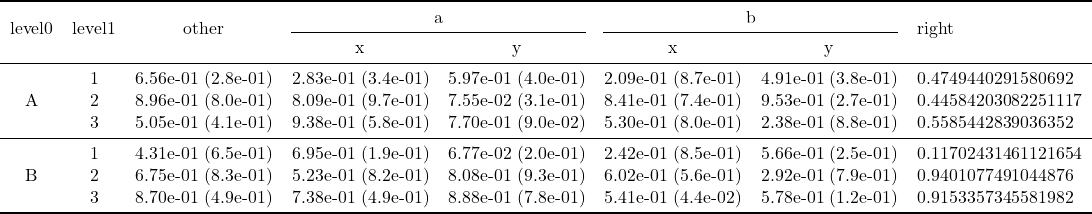
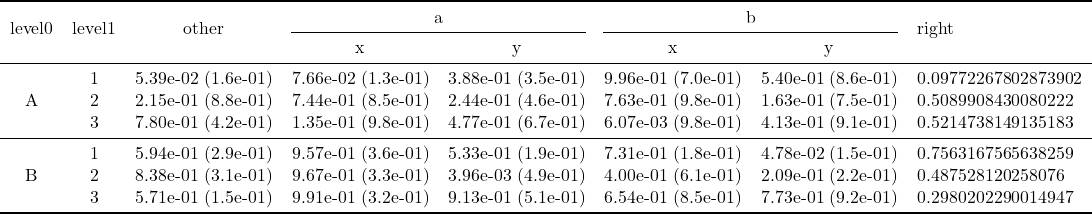
build based on 65963c9

diff --git a/dev/index.html b/dev/index.html
@@ -1,2 +1,2 @@
 <!DOCTYPE html>
-<html lang="en"><head><meta charset="UTF-8"/><meta name="viewport" content="width=device-width, initial-scale=1.0"/><title>LaTeXTables.jl Documentation · LaTeXTables.jl Documentation</title><script data-outdated-warner src="assets/warner.js"></script><link href="https://cdnjs.cloudflare.com/ajax/libs/lato-font/3.0.0/css/lato-font.min.css" rel="stylesheet" type="text/css"/><link href="https://cdnjs.cloudflare.com/ajax/libs/juliamono/0.045/juliamono.min.css" rel="stylesheet" type="text/css"/><link href="https://cdnjs.cloudflare.com/ajax/libs/font-awesome/5.15.4/css/fontawesome.min.css" rel="stylesheet" type="text/css"/><link href="https://cdnjs.cloudflare.com/ajax/libs/font-awesome/5.15.4/css/solid.min.css" rel="stylesheet" type="text/css"/><link href="https://cdnjs.cloudflare.com/ajax/libs/font-awesome/5.15.4/css/brands.min.css" rel="stylesheet" type="text/css"/><link href="https://cdnjs.cloudflare.com/ajax/libs/KaTeX/0.13.24/katex.min.css" rel="stylesheet" type="text/css"/><script>documenterBaseURL="."</script><script src="https://cdnjs.cloudflare.com/ajax/libs/require.js/2.3.6/require.min.js" data-main="assets/documenter.js"></script><script src="siteinfo.js"></script><script src="../versions.js"></script><link class="docs-theme-link" rel="stylesheet" type="text/css" href="assets/themes/documenter-dark.css" data-theme-name="documenter-dark" data-theme-primary-dark/><link class="docs-theme-link" rel="stylesheet" type="text/css" href="assets/themes/documenter-light.css" data-theme-name="documenter-light" data-theme-primary/><script src="assets/themeswap.js"></script></head><body><div id="documenter"><nav class="docs-sidebar"><div class="docs-package-name"><span class="docs-autofit"><a href>LaTeXTables.jl Documentation</a></span></div><form class="docs-search" action="search/"><input class="docs-search-query" id="documenter-search-query" name="q" type="text" placeholder="Search docs"/></form><ul class="docs-menu"><li class="is-active"><a class="tocitem" href>LaTeXTables.jl Documentation</a><ul class="internal"><li><a class="tocitem" href="#Related-Packages"><span>Related Packages</span></a></li></ul></li><li><a class="tocitem" href="api/">API</a></li><li><a class="tocitem" href="example/">Examples</a></li></ul><div class="docs-version-selector field has-addons"><div class="control"><span class="docs-label button is-static is-size-7">Version</span></div><div class="docs-selector control is-expanded"><div class="select is-fullwidth is-size-7"><select id="documenter-version-selector"></select></div></div></div></nav><div class="docs-main"><header class="docs-navbar"><nav class="breadcrumb"><ul class="is-hidden-mobile"><li class="is-active"><a href>LaTeXTables.jl Documentation</a></li></ul><ul class="is-hidden-tablet"><li class="is-active"><a href>LaTeXTables.jl Documentation</a></li></ul></nav><div class="docs-right"><a class="docs-edit-link" href="https://github.com/szcf-weiya/LaTeXTables.jl/blob/master/docs/src/index.md" title="Edit on GitHub"><span class="docs-icon fab"></span><span class="docs-label is-hidden-touch">Edit on GitHub</span></a><a class="docs-settings-button fas fa-cog" id="documenter-settings-button" href="#" title="Settings"></a><a class="docs-sidebar-button fa fa-bars is-hidden-desktop" id="documenter-sidebar-button" href="#"></a></div></header><article class="content" id="documenter-page"><h1 id="LaTeXTables.jl-Documentation"><a class="docs-heading-anchor" href="#LaTeXTables.jl-Documentation">LaTeXTables.jl Documentation</a><a id="LaTeXTables.jl-Documentation-1"></a><a class="docs-heading-anchor-permalink" href="#LaTeXTables.jl-Documentation" title="Permalink"></a></h1><p>LaTeXTables.jl is a Julia package that coverts (complex) tables into LaTeX code.</p><h2 id="Related-Packages"><a class="docs-heading-anchor" href="#Related-Packages">Related Packages</a><a id="Related-Packages-1"></a><a class="docs-heading-anchor-permalink" href="#Related-Packages" title="Permalink"></a></h2><ul><li><a href="https://github.com/scheinerman/LatexPrint.jl">https://github.com/scheinerman/LatexPrint.jl</a>: only support basic data structure, such as 1d or 2d arrays</li><li><a href="https://github.com/ronisbr/PrettyTables.jl">https://github.com/ronisbr/PrettyTables.jl</a>: only support simple tables, i.e., one level row and one level column</li></ul></article><nav class="docs-footer"><a class="docs-footer-nextpage" href="api/">API »</a><div class="flexbox-break"></div><p class="footer-message">Powered by <a href="https://github.com/JuliaDocs/Documenter.jl">Documenter.jl</a> and the <a href="https://julialang.org/">Julia Programming Language</a>.</p></nav></div><div class="modal" id="documenter-settings"><div class="modal-background"></div><div class="modal-card"><header class="modal-card-head"><p class="modal-card-title">Settings</p><button class="delete"></button></header><section class="modal-card-body"><p><label class="label">Theme</label><div class="select"><select id="documenter-themepicker"><option value="documenter-light">documenter-light</option><option value="documenter-dark">documenter-dark</option></select></div></p><hr/><p>This document was generated with <a href="https://github.com/JuliaDocs/Documenter.jl">Documenter.jl</a> version 0.27.24 on <span class="colophon-date" title="Wednesday 19 April 2023 14:34">Wednesday 19 April 2023</span>. Using Julia version 1.7.3.</p></section><footer class="modal-card-foot"></footer></div></div></div></body></html>
+<html lang="en"><head><meta charset="UTF-8"/><meta name="viewport" content="width=device-width, initial-scale=1.0"/><title>LaTeXTables.jl Documentation · LaTeXTables.jl Documentation</title><script data-outdated-warner src="assets/warner.js"></script><link href="https://cdnjs.cloudflare.com/ajax/libs/lato-font/3.0.0/css/lato-font.min.css" rel="stylesheet" type="text/css"/><link href="https://cdnjs.cloudflare.com/ajax/libs/juliamono/0.045/juliamono.min.css" rel="stylesheet" type="text/css"/><link href="https://cdnjs.cloudflare.com/ajax/libs/font-awesome/5.15.4/css/fontawesome.min.css" rel="stylesheet" type="text/css"/><link href="https://cdnjs.cloudflare.com/ajax/libs/font-awesome/5.15.4/css/solid.min.css" rel="stylesheet" type="text/css"/><link href="https://cdnjs.cloudflare.com/ajax/libs/font-awesome/5.15.4/css/brands.min.css" rel="stylesheet" type="text/css"/><link href="https://cdnjs.cloudflare.com/ajax/libs/KaTeX/0.13.24/katex.min.css" rel="stylesheet" type="text/css"/><script>documenterBaseURL="."</script><script src="https://cdnjs.cloudflare.com/ajax/libs/require.js/2.3.6/require.min.js" data-main="assets/documenter.js"></script><script src="siteinfo.js"></script><script src="../versions.js"></script><link class="docs-theme-link" rel="stylesheet" type="text/css" href="assets/themes/documenter-dark.css" data-theme-name="documenter-dark" data-theme-primary-dark/><link class="docs-theme-link" rel="stylesheet" type="text/css" href="assets/themes/documenter-light.css" data-theme-name="documenter-light" data-theme-primary/><script src="assets/themeswap.js"></script></head><body><div id="documenter"><nav class="docs-sidebar"><div class="docs-package-name"><span class="docs-autofit"><a href>LaTeXTables.jl Documentation</a></span></div><form class="docs-search" action="search/"><input class="docs-search-query" id="documenter-search-query" name="q" type="text" placeholder="Search docs"/></form><ul class="docs-menu"><li class="is-active"><a class="tocitem" href>LaTeXTables.jl Documentation</a><ul class="internal"><li><a class="tocitem" href="#Related-Packages"><span>Related Packages</span></a></li></ul></li><li><a class="tocitem" href="api/">API</a></li><li><a class="tocitem" href="example/">Examples</a></li></ul><div class="docs-version-selector field has-addons"><div class="control"><span class="docs-label button is-static is-size-7">Version</span></div><div class="docs-selector control is-expanded"><div class="select is-fullwidth is-size-7"><select id="documenter-version-selector"></select></div></div></div></nav><div class="docs-main"><header class="docs-navbar"><nav class="breadcrumb"><ul class="is-hidden-mobile"><li class="is-active"><a href>LaTeXTables.jl Documentation</a></li></ul><ul class="is-hidden-tablet"><li class="is-active"><a href>LaTeXTables.jl Documentation</a></li></ul></nav><div class="docs-right"><a class="docs-edit-link" href="https://github.com/szcf-weiya/LaTeXTables.jl/blob/master/docs/src/index.md" title="Edit on GitHub"><span class="docs-icon fab"></span><span class="docs-label is-hidden-touch">Edit on GitHub</span></a><a class="docs-settings-button fas fa-cog" id="documenter-settings-button" href="#" title="Settings"></a><a class="docs-sidebar-button fa fa-bars is-hidden-desktop" id="documenter-sidebar-button" href="#"></a></div></header><article class="content" id="documenter-page"><h1 id="LaTeXTables.jl-Documentation"><a class="docs-heading-anchor" href="#LaTeXTables.jl-Documentation">LaTeXTables.jl Documentation</a><a id="LaTeXTables.jl-Documentation-1"></a><a class="docs-heading-anchor-permalink" href="#LaTeXTables.jl-Documentation" title="Permalink"></a></h1><p>LaTeXTables.jl is a Julia package that coverts (complex) tables into LaTeX code.</p><h2 id="Related-Packages"><a class="docs-heading-anchor" href="#Related-Packages">Related Packages</a><a id="Related-Packages-1"></a><a class="docs-heading-anchor-permalink" href="#Related-Packages" title="Permalink"></a></h2><ul><li><a href="https://github.com/scheinerman/LatexPrint.jl">https://github.com/scheinerman/LatexPrint.jl</a>: only support basic data structure, such as 1d or 2d arrays</li><li><a href="https://github.com/ronisbr/PrettyTables.jl">https://github.com/ronisbr/PrettyTables.jl</a>: only support simple tables, i.e., one level row and one level column</li></ul></article><nav class="docs-footer"><a class="docs-footer-nextpage" href="api/">API »</a><div class="flexbox-break"></div><p class="footer-message">Powered by <a href="https://github.com/JuliaDocs/Documenter.jl">Documenter.jl</a> and the <a href="https://julialang.org/">Julia Programming Language</a>.</p></nav></div><div class="modal" id="documenter-settings"><div class="modal-background"></div><div class="modal-card"><header class="modal-card-head"><p class="modal-card-title">Settings</p><button class="delete"></button></header><section class="modal-card-body"><p><label class="label">Theme</label><div class="select"><select id="documenter-themepicker"><option value="documenter-light">documenter-light</option><option value="documenter-dark">documenter-dark</option></select></div></p><hr/><p>This document was generated with <a href="https://github.com/JuliaDocs/Documenter.jl">Documenter.jl</a> version 0.27.24 on <span class="colophon-date" title="Wednesday 19 April 2023 16:37">Wednesday 19 April 2023</span>. Using Julia version 1.7.3.</p></section><footer class="modal-card-foot"></footer></div></div></div></body></html>

diff --git a/dev/search/index.html b/dev/search/index.html
@@ -1,2 +1,2 @@
 <!DOCTYPE html>
-<html lang="en"><head><meta charset="UTF-8"/><meta name="viewport" content="width=device-width, initial-scale=1.0"/><title>Search · LaTeXTables.jl Documentation</title><script data-outdated-warner src="../assets/warner.js"></script><link href="https://cdnjs.cloudflare.com/ajax/libs/lato-font/3.0.0/css/lato-font.min.css" rel="stylesheet" type="text/css"/><link href="https://cdnjs.cloudflare.com/ajax/libs/juliamono/0.045/juliamono.min.css" rel="stylesheet" type="text/css"/><link href="https://cdnjs.cloudflare.com/ajax/libs/font-awesome/5.15.4/css/fontawesome.min.css" rel="stylesheet" type="text/css"/><link href="https://cdnjs.cloudflare.com/ajax/libs/font-awesome/5.15.4/css/solid.min.css" rel="stylesheet" type="text/css"/><link href="https://cdnjs.cloudflare.com/ajax/libs/font-awesome/5.15.4/css/brands.min.css" rel="stylesheet" type="text/css"/><link href="https://cdnjs.cloudflare.com/ajax/libs/KaTeX/0.13.24/katex.min.css" rel="stylesheet" type="text/css"/><script>documenterBaseURL=".."</script><script src="https://cdnjs.cloudflare.com/ajax/libs/require.js/2.3.6/require.min.js" data-main="../assets/documenter.js"></script><script src="../siteinfo.js"></script><script src="../../versions.js"></script><link class="docs-theme-link" rel="stylesheet" type="text/css" href="../assets/themes/documenter-dark.css" data-theme-name="documenter-dark" data-theme-primary-dark/><link class="docs-theme-link" rel="stylesheet" type="text/css" href="../assets/themes/documenter-light.css" data-theme-name="documenter-light" data-theme-primary/><script src="../assets/themeswap.js"></script></head><body><div id="documenter"><nav class="docs-sidebar"><div class="docs-package-name"><span class="docs-autofit"><a href="../">LaTeXTables.jl Documentation</a></span></div><form class="docs-search" action><input class="docs-search-query" id="documenter-search-query" name="q" type="text" placeholder="Search docs"/></form><ul class="docs-menu"><li><a class="tocitem" href="../">LaTeXTables.jl Documentation</a></li><li><a class="tocitem" href="../api/">API</a></li><li><a class="tocitem" href="../example/">Examples</a></li></ul><div class="docs-version-selector field has-addons"><div class="control"><span class="docs-label button is-static is-size-7">Version</span></div><div class="docs-selector control is-expanded"><div class="select is-fullwidth is-size-7"><select id="documenter-version-selector"></select></div></div></div></nav><div class="docs-main"><header class="docs-navbar"><nav class="breadcrumb"><ul class="is-hidden-mobile"><li class="is-active"><a href>Search</a></li></ul><ul class="is-hidden-tablet"><li class="is-active"><a href>Search</a></li></ul></nav><div class="docs-right"><a class="docs-settings-button fas fa-cog" id="documenter-settings-button" href="#" title="Settings"></a><a class="docs-sidebar-button fa fa-bars is-hidden-desktop" id="documenter-sidebar-button" href="#"></a></div></header><article><p id="documenter-search-info">Loading search...</p><ul id="documenter-search-results"></ul></article><nav class="docs-footer"><p class="footer-message">Powered by <a href="https://github.com/JuliaDocs/Documenter.jl">Documenter.jl</a> and the <a href="https://julialang.org/">Julia Programming Language</a>.</p></nav></div><div class="modal" id="documenter-settings"><div class="modal-background"></div><div class="modal-card"><header class="modal-card-head"><p class="modal-card-title">Settings</p><button class="delete"></button></header><section class="modal-card-body"><p><label class="label">Theme</label><div class="select"><select id="documenter-themepicker"><option value="documenter-light">documenter-light</option><option value="documenter-dark">documenter-dark</option></select></div></p><hr/><p>This document was generated with <a href="https://github.com/JuliaDocs/Documenter.jl">Documenter.jl</a> version 0.27.24 on <span class="colophon-date" title="Wednesday 19 April 2023 14:34">Wednesday 19 April 2023</span>. Using Julia version 1.7.3.</p></section><footer class="modal-card-foot"></footer></div></div></div></body><script src="../search_index.js"></script><script src="../assets/search.js"></script></html>
+<html lang="en"><head><meta charset="UTF-8"/><meta name="viewport" content="width=device-width, initial-scale=1.0"/><title>Search · LaTeXTables.jl Documentation</title><script data-outdated-warner src="../assets/warner.js"></script><link href="https://cdnjs.cloudflare.com/ajax/libs/lato-font/3.0.0/css/lato-font.min.css" rel="stylesheet" type="text/css"/><link href="https://cdnjs.cloudflare.com/ajax/libs/juliamono/0.045/juliamono.min.css" rel="stylesheet" type="text/css"/><link href="https://cdnjs.cloudflare.com/ajax/libs/font-awesome/5.15.4/css/fontawesome.min.css" rel="stylesheet" type="text/css"/><link href="https://cdnjs.cloudflare.com/ajax/libs/font-awesome/5.15.4/css/solid.min.css" rel="stylesheet" type="text/css"/><link href="https://cdnjs.cloudflare.com/ajax/libs/font-awesome/5.15.4/css/brands.min.css" rel="stylesheet" type="text/css"/><link href="https://cdnjs.cloudflare.com/ajax/libs/KaTeX/0.13.24/katex.min.css" rel="stylesheet" type="text/css"/><script>documenterBaseURL=".."</script><script src="https://cdnjs.cloudflare.com/ajax/libs/require.js/2.3.6/require.min.js" data-main="../assets/documenter.js"></script><script src="../siteinfo.js"></script><script src="../../versions.js"></script><link class="docs-theme-link" rel="stylesheet" type="text/css" href="../assets/themes/documenter-dark.css" data-theme-name="documenter-dark" data-theme-primary-dark/><link class="docs-theme-link" rel="stylesheet" type="text/css" href="../assets/themes/documenter-light.css" data-theme-name="documenter-light" data-theme-primary/><script src="../assets/themeswap.js"></script></head><body><div id="documenter"><nav class="docs-sidebar"><div class="docs-package-name"><span class="docs-autofit"><a href="../">LaTeXTables.jl Documentation</a></span></div><form class="docs-search" action><input class="docs-search-query" id="documenter-search-query" name="q" type="text" placeholder="Search docs"/></form><ul class="docs-menu"><li><a class="tocitem" href="../">LaTeXTables.jl Documentation</a></li><li><a class="tocitem" href="../api/">API</a></li><li><a class="tocitem" href="../example/">Examples</a></li></ul><div class="docs-version-selector field has-addons"><div class="control"><span class="docs-label button is-static is-size-7">Version</span></div><div class="docs-selector control is-expanded"><div class="select is-fullwidth is-size-7"><select id="documenter-version-selector"></select></div></div></div></nav><div class="docs-main"><header class="docs-navbar"><nav class="breadcrumb"><ul class="is-hidden-mobile"><li class="is-active"><a href>Search</a></li></ul><ul class="is-hidden-tablet"><li class="is-active"><a href>Search</a></li></ul></nav><div class="docs-right"><a class="docs-settings-button fas fa-cog" id="documenter-settings-button" href="#" title="Settings"></a><a class="docs-sidebar-button fa fa-bars is-hidden-desktop" id="documenter-sidebar-button" href="#"></a></div></header><article><p id="documenter-search-info">Loading search...</p><ul id="documenter-search-results"></ul></article><nav class="docs-footer"><p class="footer-message">Powered by <a href="https://github.com/JuliaDocs/Documenter.jl">Documenter.jl</a> and the <a href="https://julialang.org/">Julia Programming Language</a>.</p></nav></div><div class="modal" id="documenter-settings"><div class="modal-background"></div><div class="modal-card"><header class="modal-card-head"><p class="modal-card-title">Settings</p><button class="delete"></button></header><section class="modal-card-body"><p><label class="label">Theme</label><div class="select"><select id="documenter-themepicker"><option value="documenter-light">documenter-light</option><option value="documenter-dark">documenter-dark</option></select></div></p><hr/><p>This document was generated with <a href="https://github.com/JuliaDocs/Documenter.jl">Documenter.jl</a> version 0.27.24 on <span class="colophon-date" title="Wednesday 19 April 2023 16:37">Wednesday 19 April 2023</span>. Using Julia version 1.7.3.</p></section><footer class="modal-card-foot"></footer></div></div></div></body><script src="../search_index.js"></script><script src="../assets/search.js"></script></html>

diff --git a/dev/api/index.html b/dev/api/index.html
@@ -13,4 +13,4 @@ julia&gt; print2tex(μ, σ, [&quot;A&quot;, &quot;B&quot;], [&quot;a&quot;, &quo
 noc = 0
 14
 
-julia&gt; tex2png(&quot;ex1.tex&quot;)</code></pre></div><a class="docs-sourcelink" target="_blank" href="https://github.com/szcf-weiya/LaTeXTables.jl/blob/d86344c21df6e761a7a19191cc8bac31ff465c4b/src/tab2tex.jl#L7-L33">source</a></section></article><article class="docstring"><header><a class="docstring-binding" id="LaTeXTables.tex2png" href="#LaTeXTables.tex2png"><code>LaTeXTables.tex2png</code></a> — <span class="docstring-category">Function</span></header><section><div><pre><code class="language-julia hljs">tex2png()</code></pre><p>Render a latex table source file into an image via https://quicklatex.com/js/quicklatex.js</p></div><a class="docs-sourcelink" target="_blank" href="https://github.com/szcf-weiya/LaTeXTables.jl/blob/d86344c21df6e761a7a19191cc8bac31ff465c4b/src/render.jl#L2-L6">source</a></section></article></article><nav class="docs-footer"><a class="docs-footer-prevpage" href="../">« LaTeXTables.jl Documentation</a><a class="docs-footer-nextpage" href="../example/">Examples »</a><div class="flexbox-break"></div><p class="footer-message">Powered by <a href="https://github.com/JuliaDocs/Documenter.jl">Documenter.jl</a> and the <a href="https://julialang.org/">Julia Programming Language</a>.</p></nav></div><div class="modal" id="documenter-settings"><div class="modal-background"></div><div class="modal-card"><header class="modal-card-head"><p class="modal-card-title">Settings</p><button class="delete"></button></header><section class="modal-card-body"><p><label class="label">Theme</label><div class="select"><select id="documenter-themepicker"><option value="documenter-light">documenter-light</option><option value="documenter-dark">documenter-dark</option></select></div></p><hr/><p>This document was generated with <a href="https://github.com/JuliaDocs/Documenter.jl">Documenter.jl</a> version 0.27.24 on <span class="colophon-date" title="Wednesday 19 April 2023 14:34">Wednesday 19 April 2023</span>. Using Julia version 1.7.3.</p></section><footer class="modal-card-foot"></footer></div></div></div></body></html>
+julia&gt; tex2png(&quot;ex1.tex&quot;)</code></pre></div><a class="docs-sourcelink" target="_blank" href="https://github.com/szcf-weiya/LaTeXTables.jl/blob/65963c9ad21b70f048ac9f1a53e69aeb228d3dd9/src/tab2tex.jl#L7-L33">source</a></section></article><article class="docstring"><header><a class="docstring-binding" id="LaTeXTables.tex2png" href="#LaTeXTables.tex2png"><code>LaTeXTables.tex2png</code></a> — <span class="docstring-category">Function</span></header><section><div><pre><code class="language-julia hljs">tex2png()</code></pre><p>Render a latex table source file into an image via https://quicklatex.com/js/quicklatex.js</p></div><a class="docs-sourcelink" target="_blank" href="https://github.com/szcf-weiya/LaTeXTables.jl/blob/65963c9ad21b70f048ac9f1a53e69aeb228d3dd9/src/render.jl#L2-L6">source</a></section></article></article><nav class="docs-footer"><a class="docs-footer-prevpage" href="../">« LaTeXTables.jl Documentation</a><a class="docs-footer-nextpage" href="../example/">Examples »</a><div class="flexbox-break"></div><p class="footer-message">Powered by <a href="https://github.com/JuliaDocs/Documenter.jl">Documenter.jl</a> and the <a href="https://julialang.org/">Julia Programming Language</a>.</p></nav></div><div class="modal" id="documenter-settings"><div class="modal-background"></div><div class="modal-card"><header class="modal-card-head"><p class="modal-card-title">Settings</p><button class="delete"></button></header><section class="modal-card-body"><p><label class="label">Theme</label><div class="select"><select id="documenter-themepicker"><option value="documenter-light">documenter-light</option><option value="documenter-dark">documenter-dark</option></select></div></p><hr/><p>This document was generated with <a href="https://github.com/JuliaDocs/Documenter.jl">Documenter.jl</a> version 0.27.24 on <span class="colophon-date" title="Wednesday 19 April 2023 16:37">Wednesday 19 April 2023</span>. Using Julia version 1.7.3.</p></section><footer class="modal-card-foot"></footer></div></div></div></body></html>

diff --git a/dev/example/index.html b/dev/example/index.html
@@ -29,4 +29,4 @@ others_σ = [rand(3, 1), rand(3, 1)]
 print2tex(μ, σ, [&quot;A&quot;, &quot;B&quot;], [&quot;a&quot;, &quot;b&quot;], [&quot;1&quot;,&quot;2&quot;,&quot;3&quot;], [&quot;x&quot;, &quot;y&quot;], file = &quot;ex2.tex&quot;, other_cols = others, other_col_names = [&quot;other&quot;], other_cols_σ = others_σ)
 tex2png(&quot;ex2.tex&quot;)</code></pre><pre class="documenter-example-output"><code class="nohighlight hljs ansi">&quot;ex2.png&quot;</code></pre><p><img src="../ex2.png" alt/></p><h3 id="Add-columns-on-the-right"><a class="docs-heading-anchor" href="#Add-columns-on-the-right">Add columns on the right</a><a id="Add-columns-on-the-right-1"></a><a class="docs-heading-anchor-permalink" href="#Add-columns-on-the-right" title="Permalink"></a></h3><pre><code class="language-julia hljs">right = [[rand(3), rand(3)]]
 print2tex(μ, σ, [&quot;A&quot;, &quot;B&quot;], [&quot;a&quot;, &quot;b&quot;], [&quot;1&quot;,&quot;2&quot;,&quot;3&quot;], [&quot;x&quot;, &quot;y&quot;], file = &quot;ex3.tex&quot;, other_cols = others, other_col_names = [&quot;other&quot;], other_cols_σ = others_σ, right_cols = right, right_col_names = [&quot;right&quot;])
-tex2png(&quot;ex3.tex&quot;)</code></pre><pre class="documenter-example-output"><code class="nohighlight hljs ansi">&quot;ex3.png&quot;</code></pre><p><img src="../ex3.png" alt/></p></article><nav class="docs-footer"><a class="docs-footer-prevpage" href="../api/">« API</a><div class="flexbox-break"></div><p class="footer-message">Powered by <a href="https://github.com/JuliaDocs/Documenter.jl">Documenter.jl</a> and the <a href="https://julialang.org/">Julia Programming Language</a>.</p></nav></div><div class="modal" id="documenter-settings"><div class="modal-background"></div><div class="modal-card"><header class="modal-card-head"><p class="modal-card-title">Settings</p><button class="delete"></button></header><section class="modal-card-body"><p><label class="label">Theme</label><div class="select"><select id="documenter-themepicker"><option value="documenter-light">documenter-light</option><option value="documenter-dark">documenter-dark</option></select></div></p><hr/><p>This document was generated with <a href="https://github.com/JuliaDocs/Documenter.jl">Documenter.jl</a> version 0.27.24 on <span class="colophon-date" title="Wednesday 19 April 2023 14:34">Wednesday 19 April 2023</span>. Using Julia version 1.7.3.</p></section><footer class="modal-card-foot"></footer></div></div></div></body></html>
+tex2png(&quot;ex3.tex&quot;)</code></pre><pre class="documenter-example-output"><code class="nohighlight hljs ansi">&quot;ex3.png&quot;</code></pre><p><img src="../ex3.png" alt/></p></article><nav class="docs-footer"><a class="docs-footer-prevpage" href="../api/">« API</a><div class="flexbox-break"></div><p class="footer-message">Powered by <a href="https://github.com/JuliaDocs/Documenter.jl">Documenter.jl</a> and the <a href="https://julialang.org/">Julia Programming Language</a>.</p></nav></div><div class="modal" id="documenter-settings"><div class="modal-background"></div><div class="modal-card"><header class="modal-card-head"><p class="modal-card-title">Settings</p><button class="delete"></button></header><section class="modal-card-body"><p><label class="label">Theme</label><div class="select"><select id="documenter-themepicker"><option value="documenter-light">documenter-light</option><option value="documenter-dark">documenter-dark</option></select></div></p><hr/><p>This document was generated with <a href="https://github.com/JuliaDocs/Documenter.jl">Documenter.jl</a> version 0.27.24 on <span class="colophon-date" title="Wednesday 19 April 2023 16:37">Wednesday 19 April 2023</span>. Using Julia version 1.7.3.</p></section><footer class="modal-card-foot"></footer></div></div></div></body></html>

diff --git a/dev/ex3.tex b/dev/ex3.tex
@@ -5,12 +5,12 @@
 \cmidrule(lr){6-7}
 &&&x&y&x&y\tabularnewline
 \midrule
-\multirow{3}{*}{A}&1& 6.56e-01 (2.8e-01)& 2.83e-01 (3.4e-01)& 5.97e-01 (4.0e-01)& 2.09e-01 (8.7e-01)& 4.91e-01 (3.8e-01)& 0.4749440291580692\tabularnewline
-&2& 8.96e-01 (8.0e-01)& 8.09e-01 (9.7e-01)& 7.55e-02 (3.1e-01)& 8.41e-01 (7.4e-01)& 9.53e-01 (2.7e-01)& 0.44584203082251117\tabularnewline
-&3& 5.05e-01 (4.1e-01)& 9.38e-01 (5.8e-01)& 7.70e-01 (9.0e-02)& 5.30e-01 (8.0e-01)& 2.38e-01 (8.8e-01)& 0.5585442839036352\tabularnewline
+\multirow{3}{*}{A}&1& 5.39e-02 (1.6e-01)& 7.66e-02 (1.3e-01)& 3.88e-01 (3.5e-01)& 9.96e-01 (7.0e-01)& 5.40e-01 (8.6e-01)& 0.09772267802873902\tabularnewline
+&2& 2.15e-01 (8.8e-01)& 7.44e-01 (8.5e-01)& 2.44e-01 (4.6e-01)& 7.63e-01 (9.8e-01)& 1.63e-01 (7.5e-01)& 0.5089908430080222\tabularnewline
+&3& 7.80e-01 (4.2e-01)& 1.35e-01 (9.8e-01)& 4.77e-01 (6.7e-01)& 6.07e-03 (9.8e-01)& 4.13e-01 (9.1e-01)& 0.5214738149135183\tabularnewline
 \midrule
-\multirow{3}{*}{B}&1& 4.31e-01 (6.5e-01)& 6.95e-01 (1.9e-01)& 6.77e-02 (2.0e-01)& 2.42e-01 (8.5e-01)& 5.66e-01 (2.5e-01)& 0.11702431461121654\tabularnewline
-&2& 6.75e-01 (8.3e-01)& 5.23e-01 (8.2e-01)& 8.08e-01 (9.3e-01)& 6.02e-01 (5.6e-01)& 2.92e-01 (7.9e-01)& 0.9401077491044876\tabularnewline
-&3& 8.70e-01 (4.9e-01)& 7.38e-01 (4.9e-01)& 8.88e-01 (7.8e-01)& 5.41e-01 (4.4e-02)& 5.78e-01 (1.2e-01)& 0.9153357345581982\tabularnewline
+\multirow{3}{*}{B}&1& 5.94e-01 (2.9e-01)& 9.57e-01 (3.6e-01)& 5.33e-01 (1.9e-01)& 7.31e-01 (1.8e-01)& 4.78e-02 (1.5e-01)& 0.7563167565638259\tabularnewline
+&2& 8.38e-01 (3.1e-01)& 9.67e-01 (3.3e-01)& 3.96e-03 (4.9e-01)& 4.00e-01 (6.1e-01)& 2.09e-01 (2.2e-01)& 0.487528120258076\tabularnewline
+&3& 5.71e-01 (1.5e-01)& 9.91e-01 (3.2e-01)& 9.13e-01 (5.1e-01)& 6.54e-01 (8.5e-01)& 7.73e-01 (9.2e-01)& 0.2980202290014947\tabularnewline
 \bottomrule
 \end{tabular}

diff --git a/dev/ex2.tex b/dev/ex2.tex
@@ -5,12 +5,12 @@
 \cmidrule(lr){6-7}
 &&&x&y&x&y\tabularnewline
 \midrule
-\multirow{3}{*}{A}&1& 6.56e-01 (2.8e-01)& 2.83e-01 (3.4e-01)& 5.97e-01 (4.0e-01)& 2.09e-01 (8.7e-01)& 4.91e-01 (3.8e-01)\tabularnewline
-&2& 8.96e-01 (8.0e-01)& 8.09e-01 (9.7e-01)& 7.55e-02 (3.1e-01)& 8.41e-01 (7.4e-01)& 9.53e-01 (2.7e-01)\tabularnewline
-&3& 5.05e-01 (4.1e-01)& 9.38e-01 (5.8e-01)& 7.70e-01 (9.0e-02)& 5.30e-01 (8.0e-01)& 2.38e-01 (8.8e-01)\tabularnewline
+\multirow{3}{*}{A}&1& 5.39e-02 (1.6e-01)& 7.66e-02 (1.3e-01)& 3.88e-01 (3.5e-01)& 9.96e-01 (7.0e-01)& 5.40e-01 (8.6e-01)\tabularnewline
+&2& 2.15e-01 (8.8e-01)& 7.44e-01 (8.5e-01)& 2.44e-01 (4.6e-01)& 7.63e-01 (9.8e-01)& 1.63e-01 (7.5e-01)\tabularnewline
+&3& 7.80e-01 (4.2e-01)& 1.35e-01 (9.8e-01)& 4.77e-01 (6.7e-01)& 6.07e-03 (9.8e-01)& 4.13e-01 (9.1e-01)\tabularnewline
 \midrule
-\multirow{3}{*}{B}&1& 4.31e-01 (6.5e-01)& 6.95e-01 (1.9e-01)& 6.77e-02 (2.0e-01)& 2.42e-01 (8.5e-01)& 5.66e-01 (2.5e-01)\tabularnewline
-&2& 6.75e-01 (8.3e-01)& 5.23e-01 (8.2e-01)& 8.08e-01 (9.3e-01)& 6.02e-01 (5.6e-01)& 2.92e-01 (7.9e-01)\tabularnewline
-&3& 8.70e-01 (4.9e-01)& 7.38e-01 (4.9e-01)& 8.88e-01 (7.8e-01)& 5.41e-01 (4.4e-02)& 5.78e-01 (1.2e-01)\tabularnewline
+\multirow{3}{*}{B}&1& 5.94e-01 (2.9e-01)& 9.57e-01 (3.6e-01)& 5.33e-01 (1.9e-01)& 7.31e-01 (1.8e-01)& 4.78e-02 (1.5e-01)\tabularnewline
+&2& 8.38e-01 (3.1e-01)& 9.67e-01 (3.3e-01)& 3.96e-03 (4.9e-01)& 4.00e-01 (6.1e-01)& 2.09e-01 (2.2e-01)\tabularnewline
+&3& 5.71e-01 (1.5e-01)& 9.91e-01 (3.2e-01)& 9.13e-01 (5.1e-01)& 6.54e-01 (8.5e-01)& 7.73e-01 (9.2e-01)\tabularnewline
 \bottomrule
 \end{tabular}

diff --git a/dev/ex1.tex b/dev/ex1.tex
@@ -5,12 +5,12 @@
 \cmidrule(lr){5-6}
 &&x&y&x&y\tabularnewline
 \midrule
-\multirow{3}{*}{A}&1& 2.83e-01 (3.4e-01)& 5.97e-01 (4.0e-01)& 2.09e-01 (8.7e-01)& 4.91e-01 (3.8e-01)\tabularnewline
-&2& 8.09e-01 (9.7e-01)& 7.55e-02 (3.1e-01)& 8.41e-01 (7.4e-01)& 9.53e-01 (2.7e-01)\tabularnewline
-&3& 9.38e-01 (5.8e-01)& 7.70e-01 (9.0e-02)& 5.30e-01 (8.0e-01)& 2.38e-01 (8.8e-01)\tabularnewline
+\multirow{3}{*}{A}&1& 7.66e-02 (1.3e-01)& 3.88e-01 (3.5e-01)& 9.96e-01 (7.0e-01)& 5.40e-01 (8.6e-01)\tabularnewline
+&2& 7.44e-01 (8.5e-01)& 2.44e-01 (4.6e-01)& 7.63e-01 (9.8e-01)& 1.63e-01 (7.5e-01)\tabularnewline
+&3& 1.35e-01 (9.8e-01)& 4.77e-01 (6.7e-01)& 6.07e-03 (9.8e-01)& 4.13e-01 (9.1e-01)\tabularnewline
 \midrule
-\multirow{3}{*}{B}&1& 6.95e-01 (1.9e-01)& 6.77e-02 (2.0e-01)& 2.42e-01 (8.5e-01)& 5.66e-01 (2.5e-01)\tabularnewline
-&2& 5.23e-01 (8.2e-01)& 8.08e-01 (9.3e-01)& 6.02e-01 (5.6e-01)& 2.92e-01 (7.9e-01)\tabularnewline
-&3& 7.38e-01 (4.9e-01)& 8.88e-01 (7.8e-01)& 5.41e-01 (4.4e-02)& 5.78e-01 (1.2e-01)\tabularnewline
+\multirow{3}{*}{B}&1& 9.57e-01 (3.6e-01)& 5.33e-01 (1.9e-01)& 7.31e-01 (1.8e-01)& 4.78e-02 (1.5e-01)\tabularnewline
+&2& 9.67e-01 (3.3e-01)& 3.96e-03 (4.9e-01)& 4.00e-01 (6.1e-01)& 2.09e-01 (2.2e-01)\tabularnewline
+&3& 9.91e-01 (3.2e-01)& 9.13e-01 (5.1e-01)& 6.54e-01 (8.5e-01)& 7.73e-01 (9.2e-01)\tabularnewline
 \bottomrule
 \end{tabular}

diff --git a/dev/row2col2.tex b/dev/row2col2.tex
@@ -6,10 +6,10 @@
 &&c1&c2&c3&c1&c2&c3\tabularnewline
 \midrule
 \midrule
-\multirow{2}{*}{r01}&r1&1.23e+00& (-1.16e+00, 9.79e-01)& (5.90e-02, 1.09e+00)&1.23e+00& (-1.16e+00, 9.79e-01)& (5.90e-02, 1.09e+00)\tabularnewline
-&r2&-8.68e-01& (1.89e-01, 9.89e-01)& (6.47e-01, -2.40e+00)&-8.68e-01& (1.89e-01, 9.89e-01)& (6.47e-01, -2.40e+00)\tabularnewline
+\multirow{2}{*}{r01}&r1&-1.11e-01& (9.82e-01, 9.08e-01)& (2.01e+00, -1.51e-01)&-1.11e-01& (9.82e-01, 9.08e-01)& (2.01e+00, -1.51e-01)\tabularnewline
+&r2&-5.04e-01& (3.15e-02, 1.16e+00)& (1.19e+00, 1.15e+00)&-5.04e-01& (3.15e-02, 1.16e+00)& (1.19e+00, 1.15e+00)\tabularnewline
 \midrule
-\multirow{2}{*}{r02}&r1&1.23e+00& (-1.16e+00, 9.79e-01)& (5.90e-02, 1.09e+00)&1.23e+00& (-1.16e+00, 9.79e-01)& (5.90e-02, 1.09e+00)\tabularnewline
-&r2&-8.68e-01& (1.89e-01, 9.89e-01)& (6.47e-01, -2.40e+00)&-8.68e-01& (1.89e-01, 9.89e-01)& (6.47e-01, -2.40e+00)\tabularnewline
+\multirow{2}{*}{r02}&r1&-1.11e-01& (9.82e-01, 9.08e-01)& (2.01e+00, -1.51e-01)&-1.11e-01& (9.82e-01, 9.08e-01)& (2.01e+00, -1.51e-01)\tabularnewline
+&r2&-5.04e-01& (3.15e-02, 1.16e+00)& (1.19e+00, 1.15e+00)&-5.04e-01& (3.15e-02, 1.16e+00)& (1.19e+00, 1.15e+00)\tabularnewline
 \bottomrule
 \end{tabular}

diff --git a/dev/ex02.tex b/dev/ex02.tex
@@ -2,12 +2,12 @@
 \toprule
 row&col1&col2&col3\tabularnewline
 \midrule
-A&-2.81e-01& (-1.34e-01, 6.85e-01)& (3.21e-01, -4.57e-01)\tabularnewline
-B&1.52e+00& (-1.31e-02, -5.92e-01)& (-2.71e-01, 1.42e-01)\tabularnewline
+A&-1.23e-01& (-4.68e-01, -2.00e-01)& (5.49e-02, 1.13e+00)\tabularnewline
+B&1.40e-01& (-3.55e-01, 9.70e-02)& (-6.19e-01, 4.02e-01)\tabularnewline
 \midrule
 &COL1&col2&col3\tabularnewline
 \midrule
-A&-2.81e-01& (-1.34e-01, 6.85e-01)& (3.21e-01, -4.57e-01)\tabularnewline
-B&1.52e+00& (-1.31e-02, -5.92e-01)& (-2.71e-01, 1.42e-01)\tabularnewline
+A&-1.23e-01& (-4.68e-01, -2.00e-01)& (5.49e-02, 1.13e+00)\tabularnewline
+B&1.40e-01& (-3.55e-01, 9.70e-02)& (-6.19e-01, 4.02e-01)\tabularnewline
 \bottomrule
 \end{tabular}

diff --git a/dev/col2.tex b/dev/col2.tex
@@ -5,7 +5,7 @@
 \cmidrule(lr){5-7}
 &c1&c2&c3&c1&c2&c3\tabularnewline
 \midrule
-r1&-1.37e+00& (2.00e+00, -2.27e+00)& (-5.34e-01, 1.06e+00)&-1.37e+00& (2.00e+00, -2.27e+00)& (-5.34e-01, 1.06e+00)\tabularnewline
-r2&4.55e-01& (-3.82e-01, -3.70e-02)& (1.68e+00, 2.04e-01)&4.55e-01& (-3.82e-01, -3.70e-02)& (1.68e+00, 2.04e-01)\tabularnewline
+r1&1.75e+00& (-1.77e+00, -3.51e-02)& (-1.05e+00, -5.00e-01)&1.75e+00& (-1.77e+00, -3.51e-02)& (-1.05e+00, -5.00e-01)\tabularnewline
+r2&-1.26e+00& (-4.08e-02, 1.26e+00)& (-6.27e-01, 1.10e+00)&-1.26e+00& (-4.08e-02, 1.26e+00)& (-6.27e-01, 1.10e+00)\tabularnewline
 \bottomrule
 \end{tabular}

diff --git a/dev/ex01.tex b/dev/ex01.tex
@@ -2,7 +2,7 @@
 \toprule
 row&col1&col2&col3\tabularnewline
 \midrule
-A&-8.26e-01& (-1.05e+00, -1.72e+00)& (3.26e-01, -1.51e-01)\tabularnewline
-B&3.94e-01& (4.24e-01, -1.30e+00)& (9.58e-02, -9.04e-01)\tabularnewline
+A&8.01e-01& (3.06e-01, -8.26e-01)& (-5.58e-01, 5.00e-02)\tabularnewline
+B&-1.12e+00& (-1.09e+00, -2.22e-01)& (-1.62e+00, 2.17e-01)\tabularnewline
 \bottomrule
 \end{tabular}

diff --git a/dev/ex0.tex b/dev/ex0.tex
@@ -2,7 +2,7 @@
 \toprule
 row&col1&col2&col3\tabularnewline
 \midrule
-A&5.10e-01&1.95e-01&4.34e-01\tabularnewline
-B&7.16e-01&9.67e-01&2.36e-01\tabularnewline
+A&1.01e-01&7.07e-01&3.53e-02\tabularnewline
+B&3.50e-01&7.06e-01&9.12e-01\tabularnewline
 \bottomrule
 \end{tabular}
